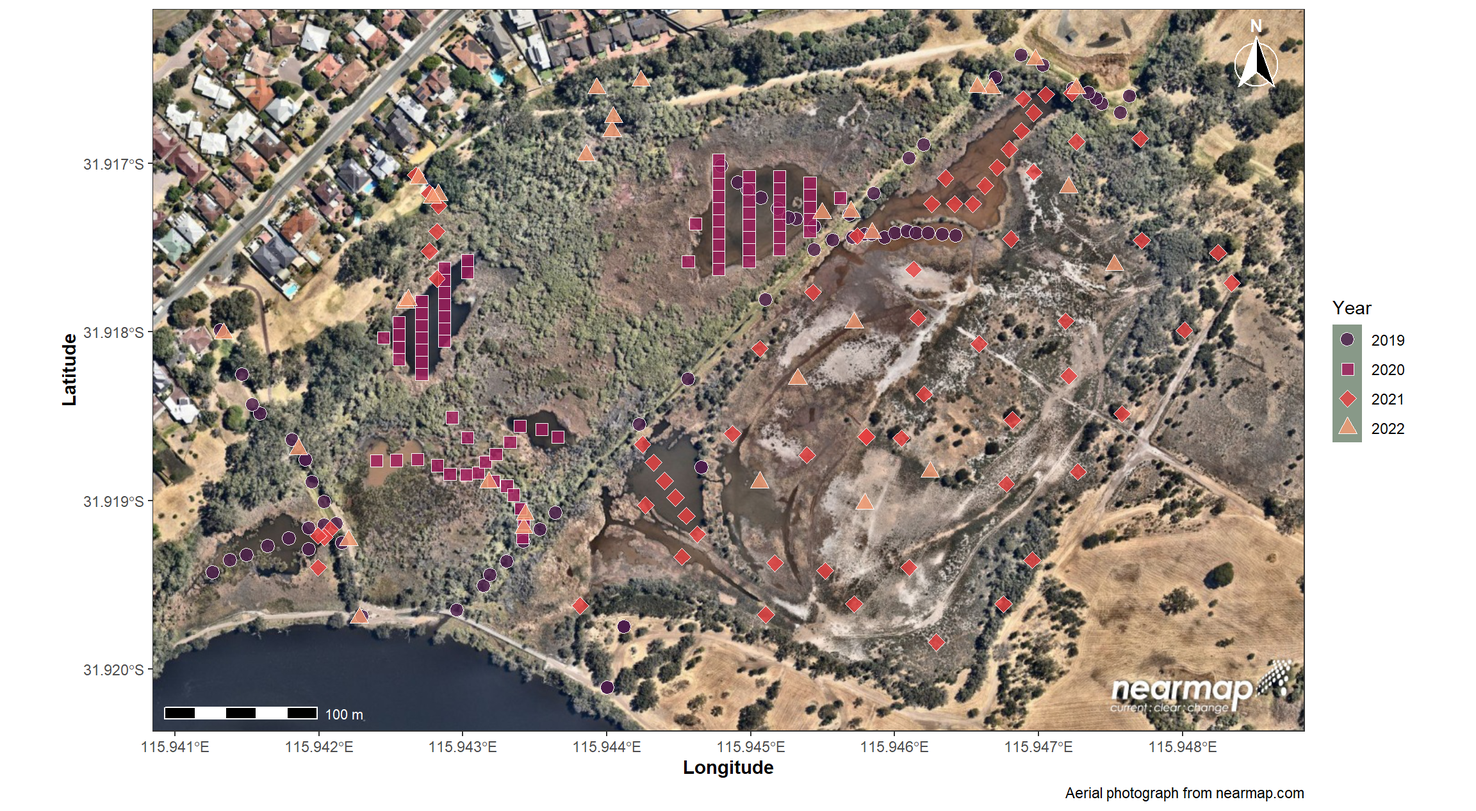
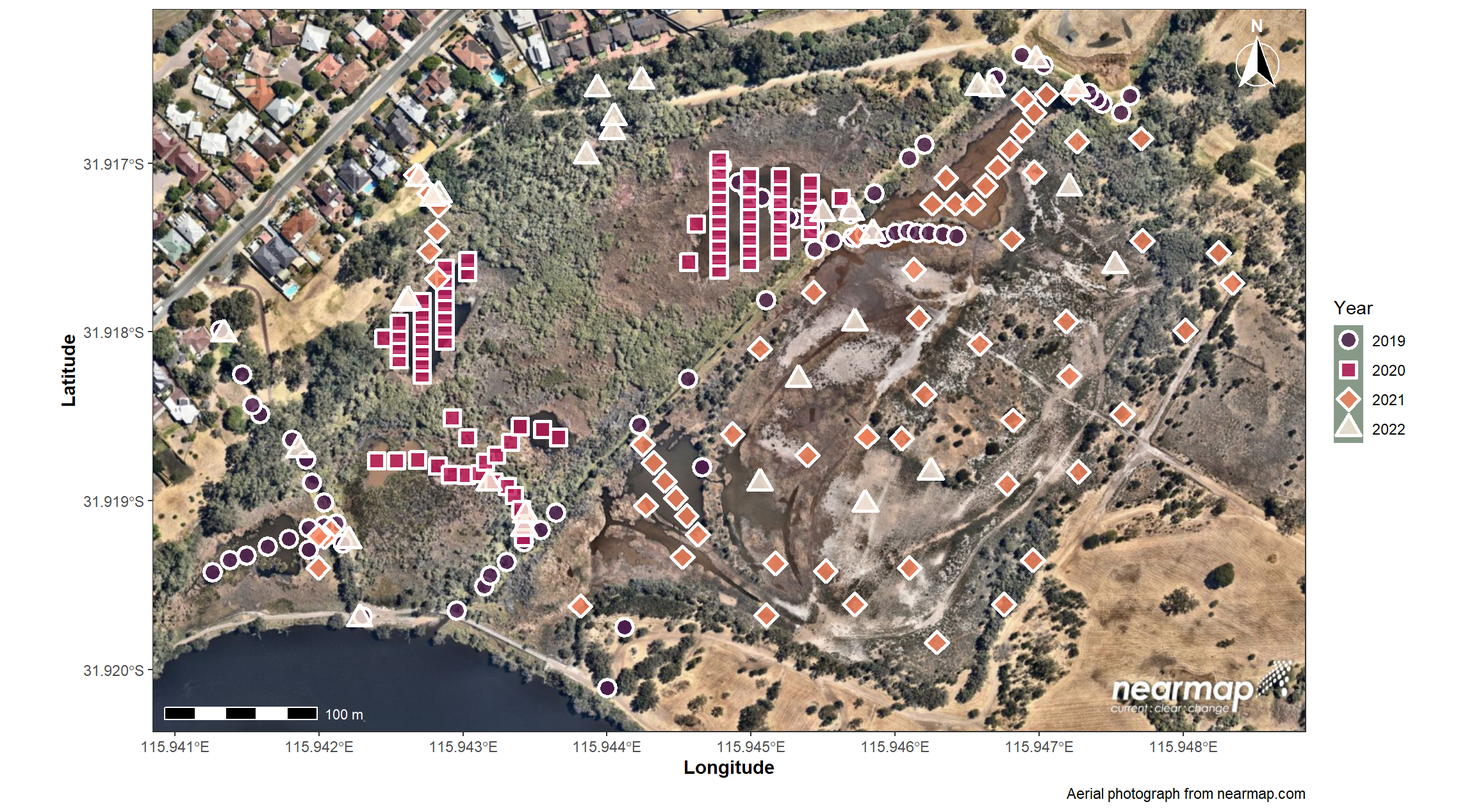
tidy up some errors

diff --git a/docs/georef-images.html b/docs/georef-images.html
@@ -11,7 +11,7 @@
 
 <meta name="author" content="Andrew Rate" />
 
-<meta name="date" content="2026-09-08" />
+<meta name="date" content="2026-09-18" />
 
 <title>Use geotagged jpeg images as map backgrounds</title>
 
@@ -344,7 +344,7 @@ $(document).ready(function () {
 <li class="dropdown">
   <a href="#" class="dropdown-toggle" data-toggle="dropdown" role="button" data-bs-toggle="dropdown" aria-expanded="false">
     Intro
-
+     
     <span class="caret"></span>
   </a>
   <ul class="dropdown-menu" role="menu">
@@ -359,7 +359,7 @@ $(document).ready(function () {
 <li class="dropdown">
   <a href="#" class="dropdown-toggle" data-toggle="dropdown" role="button" data-bs-toggle="dropdown" aria-expanded="false">
     Plots
-
+     
     <span class="caret"></span>
   </a>
   <ul class="dropdown-menu" role="menu">
@@ -380,7 +380,7 @@ $(document).ready(function () {
 <li class="dropdown">
   <a href="#" class="dropdown-toggle" data-toggle="dropdown" role="button" data-bs-toggle="dropdown" aria-expanded="false">
     Compare
-
+     
     <span class="caret"></span>
   </a>
   <ul class="dropdown-menu" role="menu">
@@ -395,7 +395,7 @@ $(document).ready(function () {
 <li class="dropdown">
   <a href="#" class="dropdown-toggle" data-toggle="dropdown" role="button" data-bs-toggle="dropdown" aria-expanded="false">
     Relate
-
+     
     <span class="caret"></span>
   </a>
   <ul class="dropdown-menu" role="menu">
@@ -425,7 +425,7 @@ $(document).ready(function () {
 <li class="dropdown">
   <a href="#" class="dropdown-toggle" data-toggle="dropdown" role="button" data-bs-toggle="dropdown" aria-expanded="false">
     Maps
-
+     
     <span class="caret"></span>
   </a>
   <ul class="dropdown-menu" role="menu">
@@ -452,7 +452,7 @@ $(document).ready(function () {
 <li class="dropdown">
   <a href="#" class="dropdown-toggle" data-toggle="dropdown" role="button" data-bs-toggle="dropdown" aria-expanded="false">
     Multi
-
+     
     <span class="caret"></span>
   </a>
   <ul class="dropdown-menu" role="menu">
@@ -473,7 +473,7 @@ $(document).ready(function () {
 <li class="dropdown">
   <a href="#" class="dropdown-toggle" data-toggle="dropdown" role="button" data-bs-toggle="dropdown" aria-expanded="false">
     Util
-
+     
     <span class="caret"></span>
   </a>
   <ul class="dropdown-menu" role="menu">
@@ -501,7 +501,7 @@ $(document).ready(function () {
 <li class="dropdown">
   <a href="#" class="dropdown-toggle" data-toggle="dropdown" role="button" data-bs-toggle="dropdown" aria-expanded="false">
     Reporting
-
+     
     <span class="caret"></span>
   </a>
   <ul class="dropdown-menu" role="menu">
@@ -548,7 +548,7 @@ $(document).ready(function () {
 backgrounds</h1>
 <h3 class="subtitle">Maps with better aerial photographs</h3>
 <h4 class="author">Andrew Rate</h4>
-<h4 class="date">2026-09-08</h4>
+<h4 class="date">2026-09-18</h4>
 
 </div>
 
@@ -612,7 +612,7 @@ specifying that file explicitly.</p>
 ## size        : 795, 1267, 3  (nrow, ncol, nlyr)
 ## resolution  : 0.597164, 0.597164  (x, y)
 ## extent      : 399868.4, 400625, 6467901, 6468376  (xmin, xmax, ymin, ymax)
-## coord. ref. :
+## coord. ref. : 
 ## source      : EPSG32750_Date20230226_Lat-31.918263_Lon115.944872_Mpp0.597.jpg
 ## colors rgb  : 1, 2, 3
 ## names       : EPSG32750_~Mpp0.597_1, EPSG32750_~Mpp0.597_2, EPSG32750_~Mpp0.597_3</code></pre>
@@ -670,13 +670,12 @@ background image:</p>
 ## 1 POINT (399868.4 6467901)
 ## 2   POINT (400625 6468376)</code></pre>
 <p>Now we can plot a map with some data on it! We use the
-<code>image()</code> function to plot the stars raster; we could also
-use <code>plot()</code> if we specify the argument
-<code>reset = FALSE</code>.</p>
+<code>terra::plot()</code> function to plot the <code>AF_nearmap</code>
+spatial raster.</p>
 <div class="sourceCode" id="cb10"><pre class="sourceCode r"><code class="sourceCode r"><span id="cb10-1"><a href="#cb10-1" tabindex="-1"></a><span class="fu">palette</span>(<span class="fu">c</span>(<span class="st">&quot;white&quot;</span>, <span class="fu">mako</span>(<span class="dv">8</span>, <span class="at">dir=</span><span class="sc">-</span><span class="dv">1</span>, <span class="at">alpha=</span><span class="fl">0.7</span>), <span class="st">&quot;black&quot;</span>,<span class="st">&quot;transparent&quot;</span>)) <span class="co"># custom palette</span></span>
 <span id="cb10-2"><a href="#cb10-2" tabindex="-1"></a><span class="fu">par</span>(<span class="at">mar=</span><span class="fu">c</span>(<span class="dv">3</span>,<span class="dv">3</span>,<span class="dv">1</span>,<span class="dv">1</span>), <span class="at">oma=</span><span class="fu">c</span>(<span class="dv">0</span>,<span class="dv">0</span>,<span class="dv">0</span>,<span class="dv">0</span>), <span class="at">mgp=</span><span class="fu">c</span>(<span class="fl">1.6</span>,<span class="fl">0.3</span>,<span class="dv">0</span>), <span class="at">tcl=</span><span class="sc">-</span><span class="fl">0.2</span>, </span>
 <span id="cb10-3"><a href="#cb10-3" tabindex="-1"></a>    <span class="at">font.lab=</span><span class="dv">2</span>, <span class="at">cex.lab=</span><span class="fl">1.2</span>, <span class="at">lend=</span><span class="st">&quot;square&quot;</span>, <span class="at">ljoin=</span><span class="st">&quot;mitre&quot;</span>)</span>
-<span id="cb10-4"><a href="#cb10-4" tabindex="-1"></a><span class="co"># Plot an empty frame, same size as the stars object</span></span>
+<span id="cb10-4"><a href="#cb10-4" tabindex="-1"></a><span class="co"># Plot an empty frame, same size as the SpatRaster object</span></span>
 <span id="cb10-5"><a href="#cb10-5" tabindex="-1"></a><span class="fu">plot</span>(afrExtent<span class="sc">$</span>geometry, <span class="at">asp=</span><span class="dv">1</span>, <span class="at">type=</span><span class="st">&quot;n&quot;</span>, </span>
 <span id="cb10-6"><a href="#cb10-6" tabindex="-1"></a>     <span class="at">xaxs=</span><span class="st">&quot;i&quot;</span>, <span class="at">yaxs=</span><span class="st">&quot;i&quot;</span>,                      <span class="co"># no space around data range</span></span>
 <span id="cb10-7"><a href="#cb10-7" tabindex="-1"></a>     <span class="at">xlab=</span><span class="st">&quot;Easting (m)&quot;</span>, <span class="at">ylab=</span><span class="st">&quot;Northing (m)&quot;</span>) </span>
@@ -725,12 +724,12 @@ Figure 1: Map of sampling locations at Ashfield Flats Reserve from
 <span id="cb11-3"><a href="#cb11-3" tabindex="-1"></a><span class="fu">ggplot</span>() <span class="sc">+</span></span>
 <span id="cb11-4"><a href="#cb11-4" tabindex="-1"></a>  <span class="fu">geom_sf</span>(<span class="at">data=</span>afrExtent, <span class="at">col=</span><span class="st">&quot;transparent&quot;</span>, <span class="at">fill=</span><span class="st">&quot;transparent&quot;</span>) <span class="sc">+</span></span>
 <span id="cb11-5"><a href="#cb11-5" tabindex="-1"></a>  <span class="fu">annotation_spatial</span>(<span class="at">data=</span>AF_nearmap) <span class="sc">+</span></span>
-<span id="cb11-6"><a href="#cb11-6" tabindex="-1"></a>  <span class="fu">geom_sf</span>(<span class="fu">aes</span>(<span class="at">fill=</span>Year, <span class="at">shape=</span>Year), <span class="at">data=</span>afsREE, <span class="at">size=</span><span class="fl">3.5</span>, <span class="at">color=</span><span class="st">&quot;#FFF&quot;</span>)<span class="sc">+</span></span>
+<span id="cb11-6"><a href="#cb11-6" tabindex="-1"></a>  <span class="fu">geom_sf</span>(<span class="fu">aes</span>(<span class="at">fill=</span>Year, <span class="at">shape=</span>Year), <span class="at">data=</span>afsREE, <span class="at">size=</span><span class="dv">4</span>, <span class="at">stroke=</span><span class="fl">1.5</span>, <span class="at">color=</span><span class="st">&quot;#FFF&quot;</span>)<span class="sc">+</span></span>
 <span id="cb11-7"><a href="#cb11-7" tabindex="-1"></a>  <span class="fu">annotation_scale</span>(<span class="at">line_col =</span> <span class="st">&quot;#FFF&quot;</span>, <span class="at">text_col =</span> <span class="st">&quot;#FFF&quot;</span>)<span class="sc">+</span></span>
 <span id="cb11-8"><a href="#cb11-8" tabindex="-1"></a>  <span class="fu">annotation_north_arrow</span>(<span class="at">location=</span><span class="st">&quot;tr&quot;</span>, </span>
 <span id="cb11-9"><a href="#cb11-9" tabindex="-1"></a>       <span class="at">style=</span><span class="fu">north_arrow_fancy_orienteering</span>(<span class="at">line_col=</span><span class="st">&quot;#FFF&quot;</span>, <span class="at">text_col=</span><span class="st">&quot;#FFF&quot;</span>,</span>
 <span id="cb11-10"><a href="#cb11-10" tabindex="-1"></a>                                            <span class="at">text_face=</span><span class="st">&quot;bold&quot;</span>)) <span class="sc">+</span></span>
-<span id="cb11-11"><a href="#cb11-11" tabindex="-1"></a>  <span class="fu">scale_fill_viridis_d</span>(<span class="at">option=</span><span class="st">&quot;rocket&quot;</span>, <span class="at">begin=</span><span class="fl">0.2</span>, <span class="at">end=</span><span class="fl">0.8</span>, <span class="at">alpha=</span><span class="fl">0.8</span>) <span class="sc">+</span></span>
+<span id="cb11-11"><a href="#cb11-11" tabindex="-1"></a>  <span class="fu">scale_fill_viridis_d</span>(<span class="at">option=</span><span class="st">&quot;rocket&quot;</span>, <span class="at">begin=</span><span class="fl">0.2</span>, <span class="at">alpha=</span><span class="fl">0.8</span>) <span class="sc">+</span></span>
 <span id="cb11-12"><a href="#cb11-12" tabindex="-1"></a>  <span class="fu">scale_shape_manual</span>(<span class="at">values=</span><span class="fu">c</span>(<span class="dv">21</span><span class="sc">:</span><span class="dv">24</span>))<span class="sc">+</span></span>
 <span id="cb11-13"><a href="#cb11-13" tabindex="-1"></a>  <span class="fu">scale_x_continuous</span>(<span class="at">expand=</span><span class="fu">c</span>(<span class="dv">0</span>,<span class="dv">0</span>)) <span class="sc">+</span></span>
 <span id="cb11-14"><a href="#cb11-14" tabindex="-1"></a>  <span class="fu">scale_y_continuous</span>(<span class="at">expand=</span><span class="fu">c</span>(<span class="dv">0</span>,<span class="dv">0</span>)) <span class="sc">+</span></span>
@@ -786,6 +785,9 @@ href="https://doi.org/10.32614/CRAN.package.terra">doi:10.32614/CRAN.package.ter
 Spatial Vector Data. <em>The R</em> <em>Journal</em> <strong>10</strong>
 (1), 439-446, <a href="https://doi.org/10.32614/RJ-2018-009"
 target="_blank">https://doi.org/10.32614/RJ-2018-009</a></p>
+<!-- Pebesma E (2022). _stars: Spatiotemporal Arrays, Raster and Vector Data Cubes_. -->
+<!-- R package version 0.6-0, -->
+<!-- [https://CRAN.R-project.org/package=stars](https://CRAN.R-project.org/package=stars){target="_blank"}. -->
 <p>Wickham, H. (2016). <code>ggplot2</code>: <em>Elegant Graphics for
 Data Analysis</em>. Springer-Verlag, New York <a
 href="https://ggplot2.tidyverse.org"
